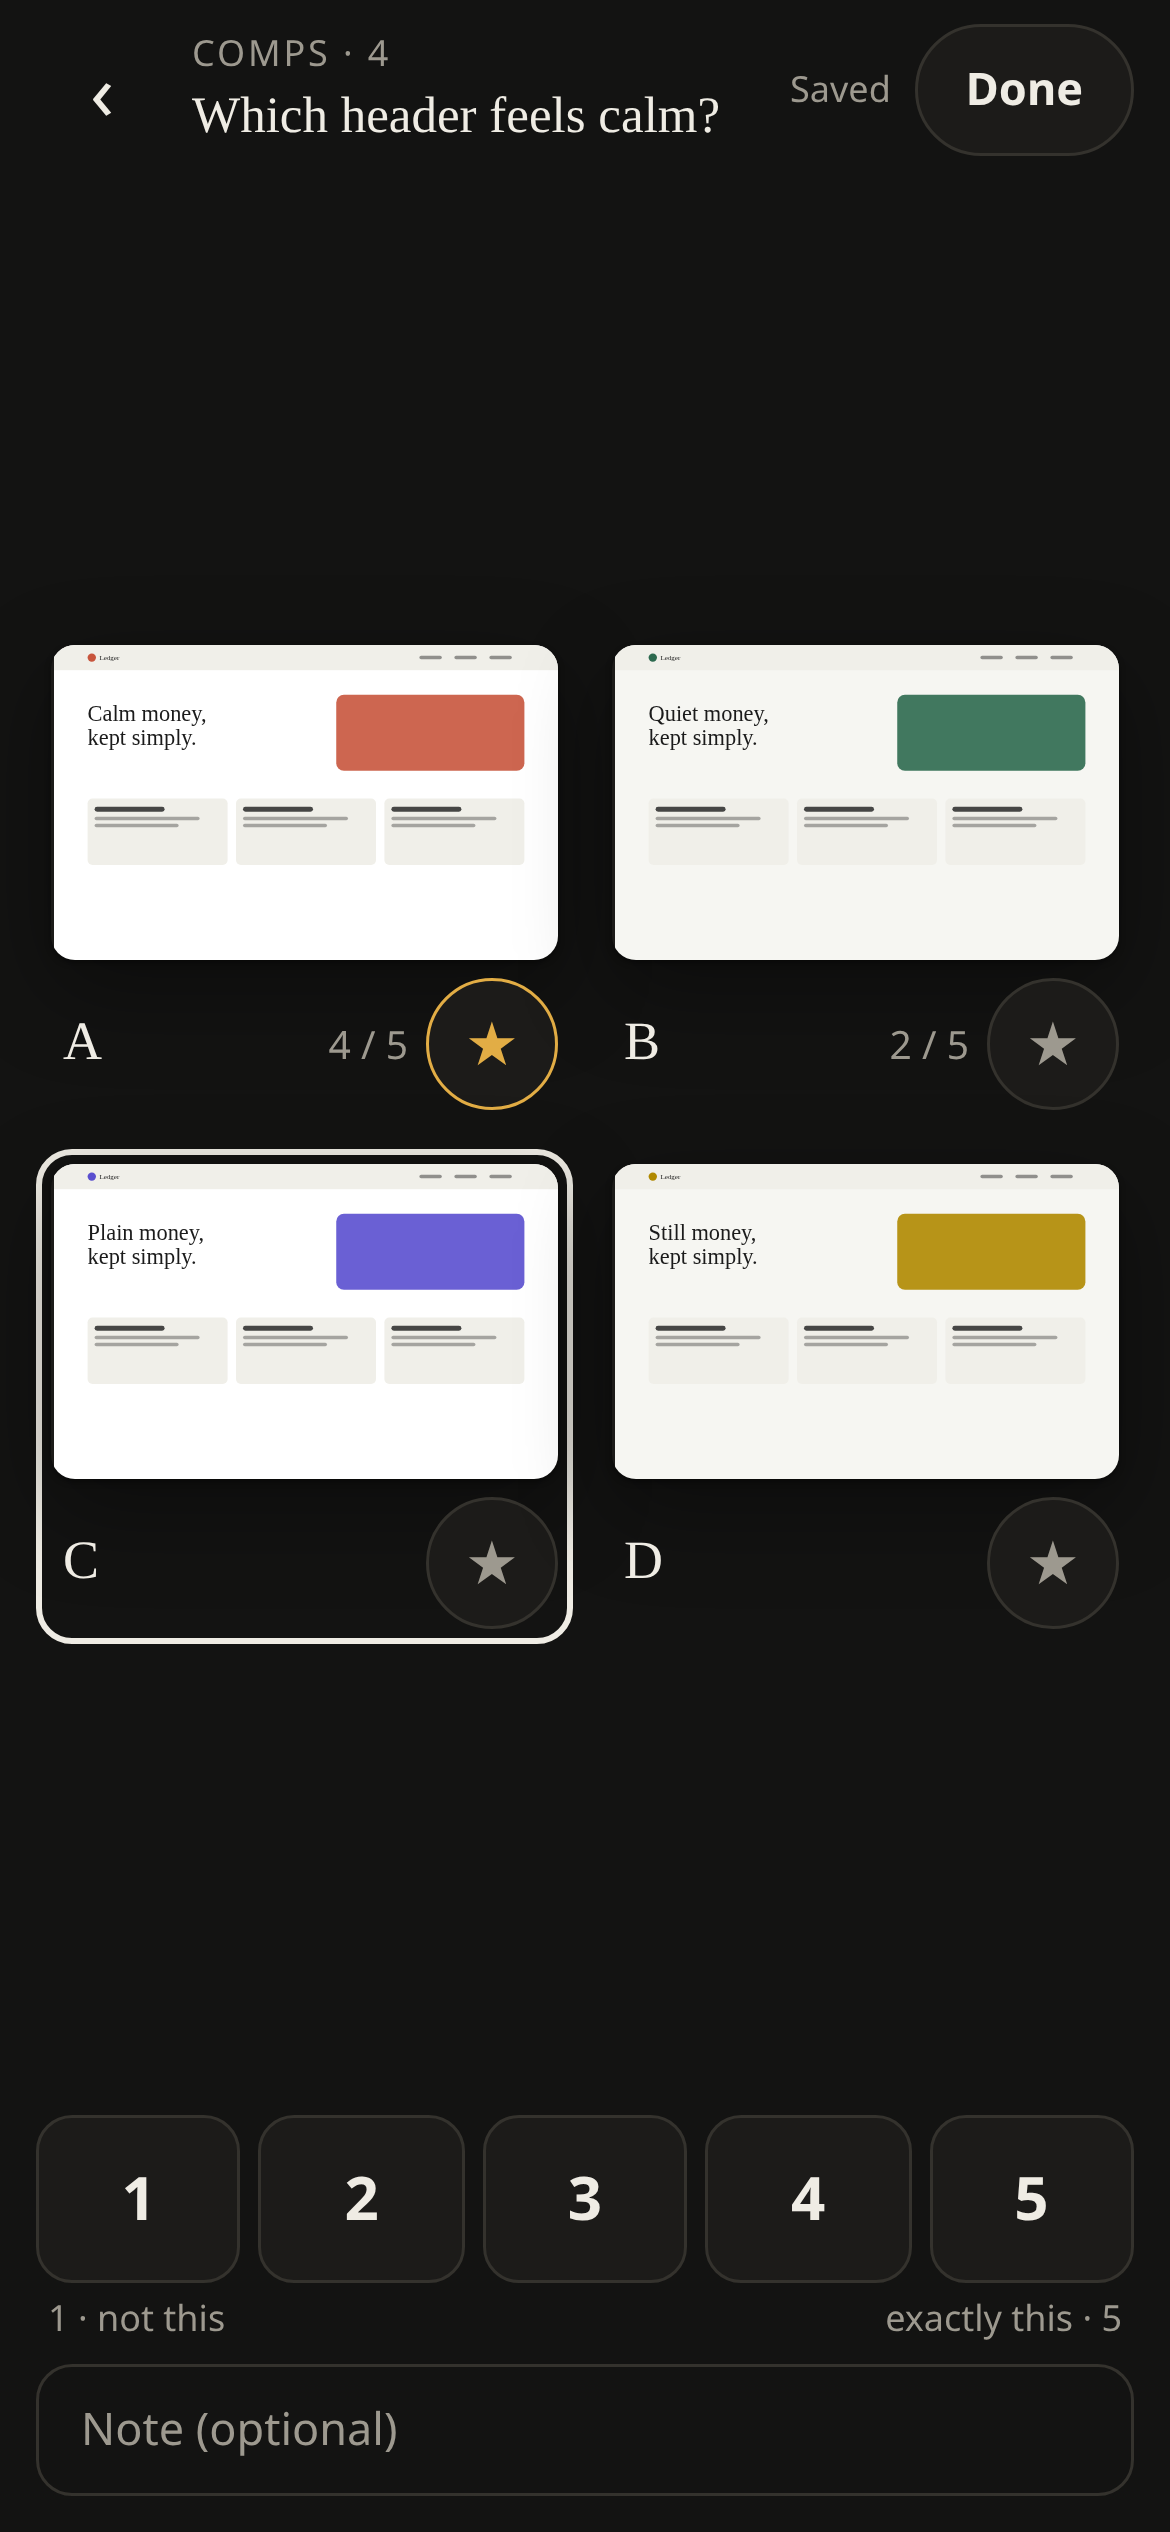
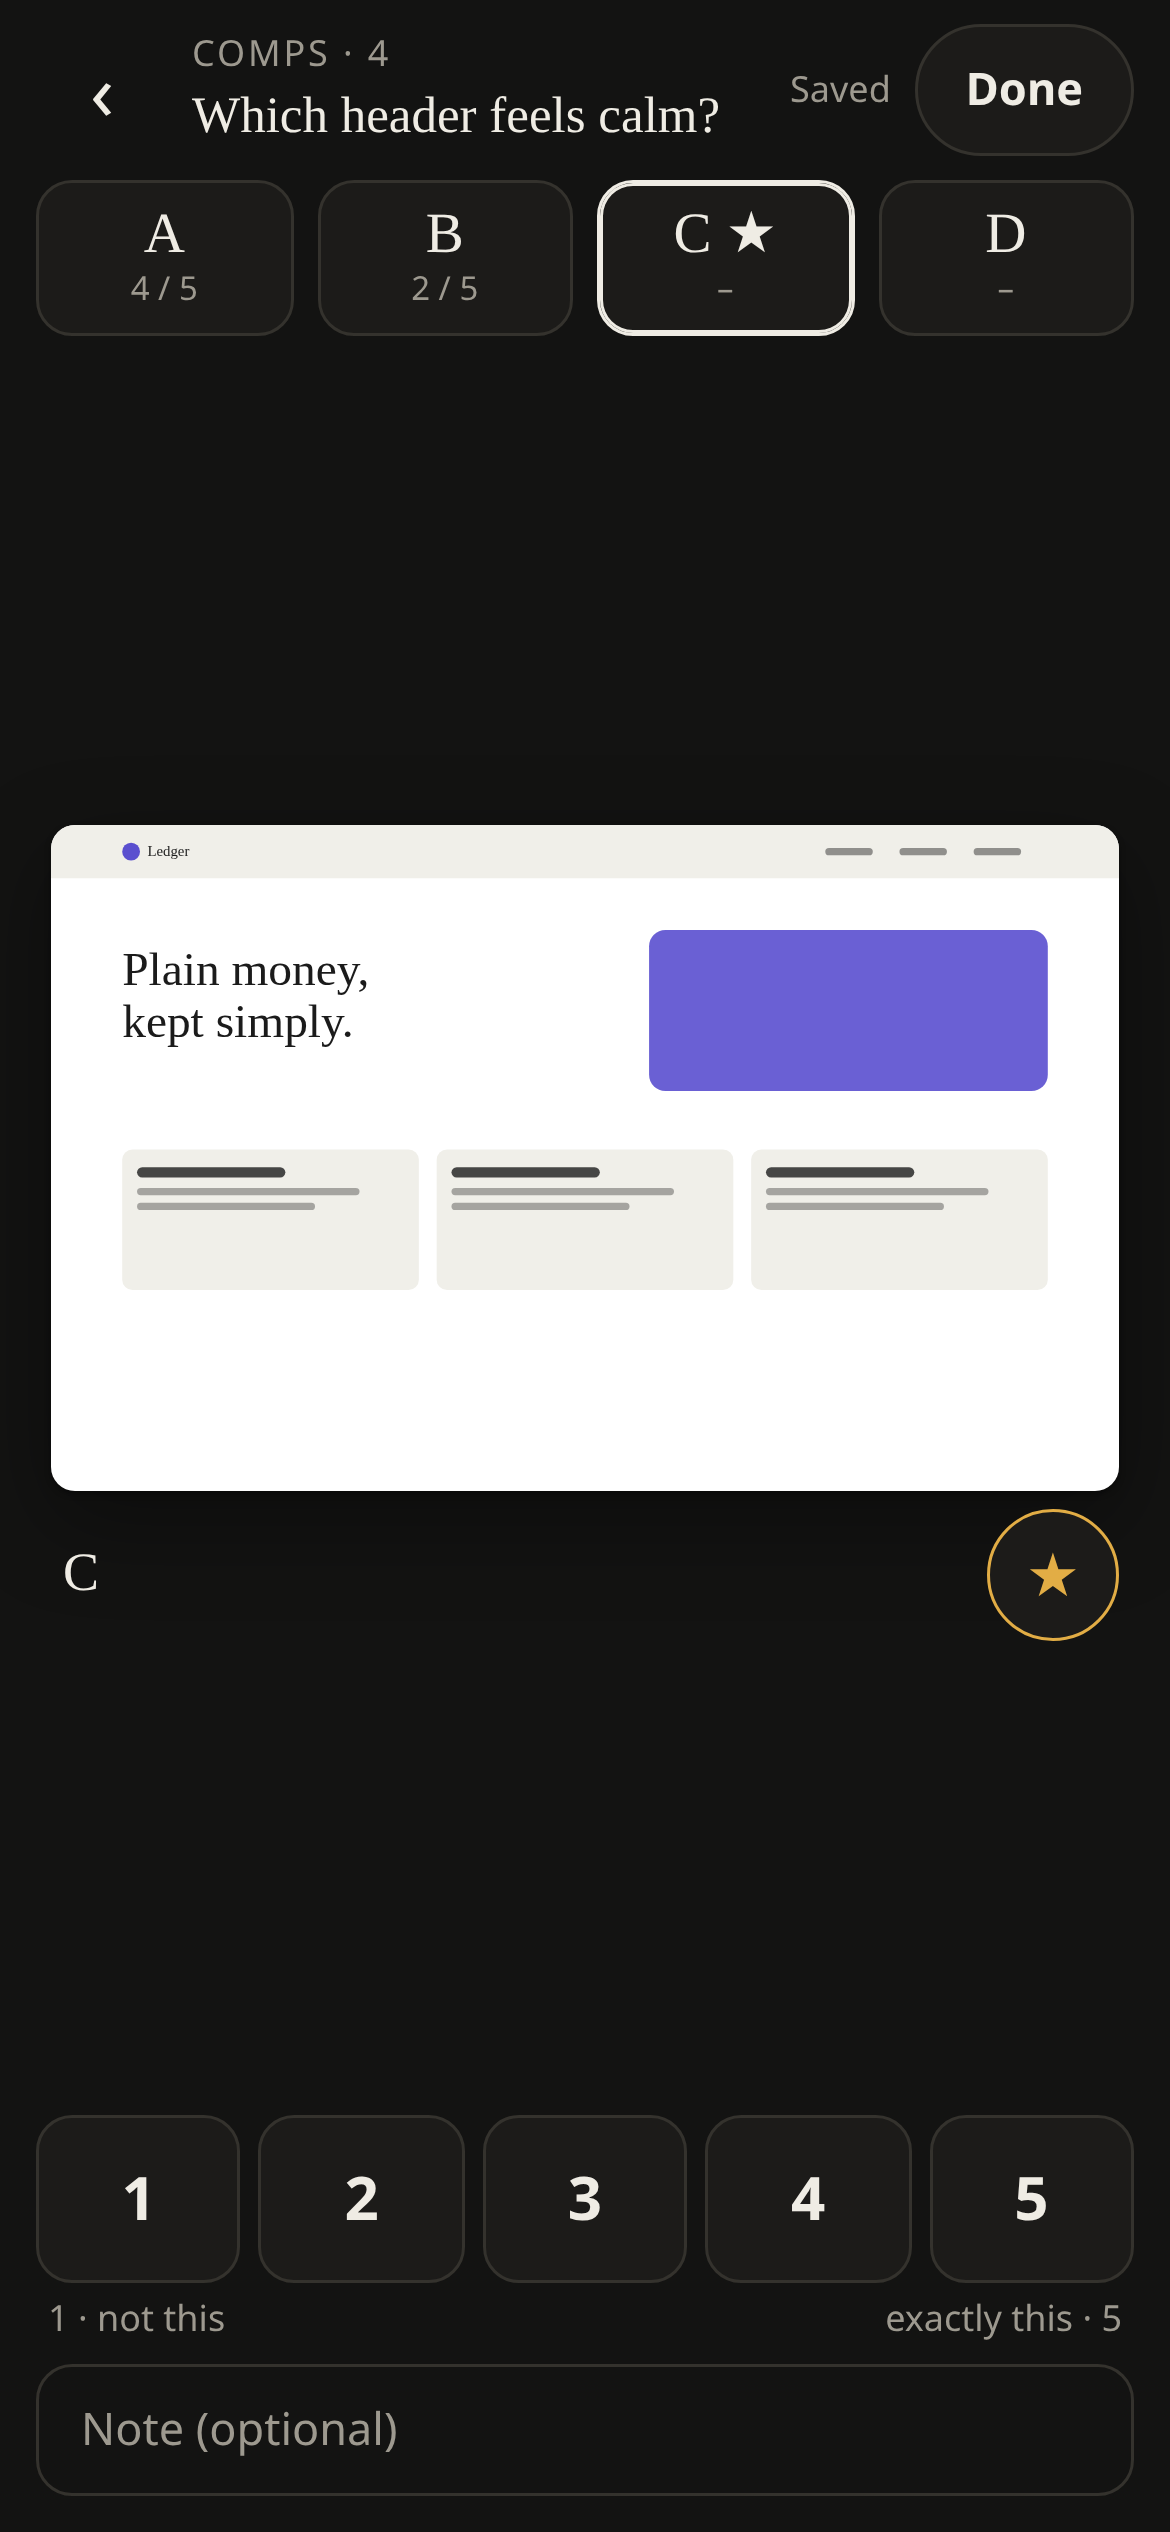
rig taste comps on a phone: one at a time, A-D chips, tap or swipe
Under 600 px wide the comps view shows one comp at full width with chips above it that carry each
comp's rating and star; a tap on a chip or a sideways swipe switches. The stage owns sideways
swipes (touch-action: pan-y, no overscroll): a swipe right had been taken as the browser's back
gesture and left the board. Chip tap and swipe are tested with real touch input, each with a
control seen red.

diff --git a/src/taste/page.js b/src/taste/page.js
@@ -15,7 +15,7 @@ const CSS = `
   color-scheme:dark;
 }}
 *{box-sizing:border-box}
-html,body{margin:0;height:100%;overflow:hidden;background:var(--bg);color:var(--ink);
+html,body{margin:0;height:100%;overflow:hidden;overscroll-behavior:none;background:var(--bg);color:var(--ink);
   font:15px/1.4 ui-sans-serif,system-ui,-apple-system,"Segoe UI",Roboto,sans-serif;-webkit-font-smoothing:antialiased}
 button,input{font:inherit;color:inherit}
 button{touch-action:manipulation;-webkit-tap-highlight-color:transparent;cursor:pointer}
@@ -31,7 +31,8 @@ header{display:flex;align-items:center;gap:8px;padding:8px max(12px,env(safe-are
 #done{height:44px;min-width:72px;padding:0 16px;border-radius:22px;border:1px solid var(--line);background:var(--paper);font-weight:600}
 #done.ready{background:var(--ink);color:var(--bg);border-color:var(--ink)}
 main{position:relative;min-height:0;padding:8px 16px}
-#stage{position:absolute;inset:8px 16px;display:flex;align-items:center;justify-content:center;gap:var(--gap,20px);transition:opacity .12s ease}
+/* A sideways swipe on the stage is the board's (next comp), never the browser's back gesture. */
+#stage{touch-action:pan-y;position:absolute;inset:8px 16px;display:flex;align-items:center;justify-content:center;gap:var(--gap,20px);transition:opacity .12s ease}
 #stage.leaving{opacity:0}
 figure{margin:0;display:flex;flex-direction:column;align-items:center;gap:6px}
 figure .shot{background:var(--paper);border-radius:8px;box-shadow:var(--shadow);overflow:hidden;display:block}
@@ -60,6 +61,13 @@ footer{padding:4px 16px max(12px,env(safe-area-inset-bottom));display:flex;flex-
 .grid{position:absolute;inset:0;display:grid;gap:16px;justify-content:center;align-content:center}
 .comp{position:relative;min-width:0;min-height:0;display:flex;flex-direction:column;gap:6px;border-radius:12px;padding:6px;border:2px solid transparent;background:transparent}
 .comp.sel{border-color:var(--ink)}
+.one .comp.sel{border-color:transparent}
+.chips{position:absolute;top:0;left:0;right:0;display:flex;gap:8px;justify-content:center}
+.chip{flex:1;max-width:88px;min-width:44px;height:52px;border-radius:12px;border:1px solid var(--line);background:var(--paper);display:flex;flex-direction:column;align-items:center;justify-content:center;gap:2px;line-height:1.1;padding:0}
+.chip b{font-family:ui-serif,Georgia,serif;font-size:19px;font-weight:500}
+.chip small{font-size:11px;color:var(--muted);font-variant-numeric:tabular-nums}
+.chip[aria-selected=true]{border-color:var(--ink);box-shadow:inset 0 0 0 1px var(--ink)}
+.chip b{color:var(--ink)}
 .comp .pick{flex:none;border:0;padding:0;background:var(--paper);border-radius:8px;box-shadow:var(--shadow);overflow:hidden;display:block;width:100%}
 .comp .pick img{display:block;width:100%;height:100%;object-fit:contain}
 .comp .bar{display:flex;align-items:center;gap:6px;height:44px}
@@ -195,6 +203,16 @@ function fit(figs){
 function imgUrl(card, view){ return '/img/' + encodeURIComponent(card.id) + '/' + view + '?t=' + encodeURIComponent(S.token) + '&v=' + (card.v[view] || '') }
 
 var relayout = function(){}
+// A horizontal swipe on the single comp moves to the next or previous one.
+var swipeFrom = null
+stage.addEventListener('touchstart', function(e){ swipeFrom = e.touches.length === 1 ? { x: e.touches[0].clientX, y: e.touches[0].clientY } : null }, { passive: true })
+stage.addEventListener('touchend', function(e){
+  var t = e.changedTouches[0], from = swipeFrom; swipeFrom = null
+  if (!from || !t || steps[pos].kind !== 'comps' || innerWidth >= ONE_UNDER) return
+  var dx = t.clientX - from.x, dy = t.clientY - from.y
+  if (Math.abs(dx) < 40 || Math.abs(dx) < Math.abs(dy) * 1.2) return
+  select(Math.max(0, Math.min(comps.length - 1, sel + (dx < 0 ? 1 : -1))))
+})
 window.addEventListener('resize', function(){ relayout() })
 
 function shotFig(card, view, caption){
@@ -222,15 +240,35 @@ function renderRef(i){
 
 // The comps view: the question once, in the header, and the comps as large as the stage allows.
 // Each frame takes its image's own shape, and the column count is whichever makes them biggest.
+// Under 600 px wide a grid of four is four thumbnails, so a phone shows one comp at a time at
+// full width, with A–D chips above it (tap one, or swipe the comp) carrying each one's rating.
+var ONE_UNDER = 600
 function renderComps(){
+  var one = innerWidth < ONE_UNDER
   $('progress').textContent = 'Comps · ' + comps.length
   $('name').textContent = S.question || 'Which one?'; $('name').title = S.question || ''
   document.body.classList.add('asking')
+  document.body.classList.toggle('one', one)
   stage.innerHTML = ''; stage.style.display = 'block'; stage.style.flexDirection = ''
+  var chips = null
+  if (one){
+    chips = el('div', 'chips'); chips.id = 'chips'; chips.setAttribute('role', 'tablist')
+    comps.forEach(function(c, k){
+      var a = answerOf('comp', c.id), letter = String.fromCharCode(65 + k)
+      var chip = el('button', 'chip'); chip.type = 'button'; chip.dataset.k = k
+      chip.setAttribute('role', 'tab'); chip.setAttribute('aria-selected', String(k === sel)); chip.setAttribute('aria-label', 'Comp ' + letter + (a.rating ? ', rated ' + a.rating : ''))
+      chip.appendChild(el('b', null, letter + (S.pick === c.id ? ' ★' : '')))
+      chip.appendChild(el('small', null, a.rating ? a.rating + ' / 5' : '–'))
+      chip.addEventListener('click', function(){ select(k) })
+      chips.appendChild(chip)
+    })
+    stage.appendChild(chips)
+  }
   var grid = el('div', 'grid'); grid.id = 'grid'
   stage.appendChild(grid)
   var imgs = []
   comps.forEach(function(c, k){
+    if (one && k !== sel) return
     var a = answerOf('comp', c.id), letter = String.fromCharCode(65 + k)
     var card = el('div', 'comp' + (k === sel ? ' sel' : '')); card.dataset.id = c.id
     var pick = el('button', 'pick'); pick.type = 'button'; pick.setAttribute('aria-label', 'Select comp ' + letter)
@@ -248,13 +286,15 @@ function renderComps(){
     card.appendChild(pick); card.appendChild(bar); grid.appendChild(card)
   })
   relayout = function(){
-    var W = stage.clientWidth, H = stage.clientHeight, gap = parseFloat(getComputedStyle(grid).rowGap) || 8
+    if ((innerWidth < ONE_UNDER) !== one) return renderComps()
+    if (chips) grid.style.top = chips.offsetHeight + 12 + 'px'
+    var W = grid.clientWidth, H = grid.clientHeight, gap = parseFloat(getComputedStyle(grid).rowGap) || 8
     var loaded = imgs.filter(function(i){ return i.naturalWidth && i.naturalHeight })
     var a = loaded.length ? loaded.reduce(function(s, i){ return s + i.naturalWidth / i.naturalHeight }, 0) / loaded.length : 1.6
     var cs = getComputedStyle(grid.firstChild)
     var padW = parseFloat(cs.paddingLeft) * 2 + parseFloat(cs.borderLeftWidth) * 2
     var padH = padW + 44 + parseFloat(cs.rowGap || 0)
-    var best = 1, bestW = 0, n = comps.length
+    var best = 1, bestW = 0, n = grid.children.length
     for (var c = 1; c <= n; c++){
       var r = Math.ceil(n / c)
       var w = Math.min((W - gap * (c - 1)) / c - padW, ((H - gap * (r - 1)) / r - padH) * a)
@@ -306,7 +346,7 @@ function updateDone(){
 
 function go(p){
   flushNote()
-  document.body.classList.remove('asking')
+  document.body.classList.remove('asking', 'one')
   pos = Math.max(0, Math.min(steps.length - 1, p))
   var s = steps[pos]
   $('back').disabled = pos === 0

diff --git a/test/taste.test.js b/test/taste.test.js
@@ -898,7 +898,10 @@ await suite('rig taste', async (s) => {
         const q = await page.eval('document.getElementById("name")?.textContent')
         for (const r of [2, 5, 3, 4]) await press(page, input, `.rate[data-rating="${r}"]`, { touch: true })
         await sleep(300)
-        await press(page, input, '.comp:nth-child(2) .star', { touch: true })
+        // One comp at a time on a phone: B's chip, then its star.
+        await press(page, input, '.chip[data-k="1"]', { touch: true })
+        await sleep(100)
+        await press(page, input, '.comp .star', { touch: true })
         await sleep(150)
         await press(page, input, '#done', { touch: true })
         const path = await Promise.race([b.finished, sleep(4000).then(() => null)])
@@ -911,6 +914,7 @@ await suite('rig taste', async (s) => {
         ]
         const rows = tableRows(md, '## Comps — "Which header feels calm?"')
         if (JSON.stringify(rows) !== JSON.stringify(want)) console.log(`        comps rows: ${JSON.stringify(rows)}`)
+        if (q !== 'Which header feels calm?') console.log(`        header reads ${q}`)
         return q === 'Which header feels calm?' && JSON.stringify(rows) === JSON.stringify(want)
       } finally {
         await close()
@@ -927,7 +931,7 @@ await suite('rig taste', async (s) => {
         const times = await page.eval('document.body.innerText.split("Which header feels calm?").length - 1')
         // The fixtures are 1440×900: a frame within a pixel of 1.6 wide per tall, no letterbox.
         const shapes = await page.eval('[...document.querySelectorAll(".comp .pick")].map((p) => p.clientWidth / p.clientHeight)')
-        const ok = times === 1 && shapes.length === 4 && shapes.every((r) => Math.abs(r - 1.6) < 0.03)
+        const ok = times === 1 && shapes.length >= 1 && shapes.every((r) => Math.abs(r - 1.6) < 0.03)
         if (!ok) console.log(`        question shown ${times}×, frames ${shapes.map((r) => r.toFixed(2)).join(', ')}`)
         return ok
       } finally {
@@ -945,13 +949,64 @@ await suite('rig taste', async (s) => {
     timeout: 60_000,
   })
 
-  const TARGETS = [
-    '.rate',
-    '#note',
-    '#done',
-    '#back',
-    ...[1, 2, 3, 4].flatMap((n) => [`.comp:nth-child(${n}) .star`, `.comp:nth-child(${n}) .pick`]),
-  ]
+  /** Which comp the phone view shows, and what each chip says. */
+  const shownComp = (page) => page.eval('document.querySelector("#grid .comp")?.dataset.id')
+  const chipText = (page, k) => page.eval(`document.querySelector('.chip[data-k="${k}"]')?.innerText.replace(/\\s+/g, ' ').trim()`)
+
+  await s.check('comps on a phone: tapping a chip shows that comp, and the chip carries its rating', {
+    assert: async () => {
+      const { b, page, input, close } = await compsBoard()
+      try {
+        await press(page, input, '.chip[data-k="2"]', { touch: true })
+        await waitFor(async () => (await shownComp(page)) === b.round.comps[2].id, 1000)
+        const showsC = (await shownComp(page)) === b.round.comps[2].id
+        await press(page, input, '.rate[data-rating="4"]', { touch: true })
+        await sleep(300)
+        const chip = await chipText(page, 2)
+        if (!showsC || chip !== 'C 4 / 5') console.log(`        shows C: ${showsC}; chip C reads "${chip}"`)
+        return showsC && chip === 'C 4 / 5'
+      } finally {
+        await close()
+      }
+    },
+    // The control: chips that take the tap and do nothing with it.
+    breaks: pageBreak(`document.addEventListener('click', (e) => { if (e.target.closest('.chip')) e.stopImmediatePropagation() }, true)`),
+    timeout: 60_000,
+  })
+
+  await s.check('comps on a phone: a swipe left shows the next comp, a swipe right the one before', {
+    assert: async () => {
+      const { b, page, input, close } = await compsBoard()
+      try {
+        const box = await page.eval(
+          '(() => { const r = document.querySelector("#grid .comp .pick").getBoundingClientRect(); return { x: r.left + r.width / 2, y: r.top + r.height / 2 } })()',
+        )
+        const start = await shownComp(page)
+        await input.swipe({ x: box.x + 100, y: box.y, dx: -200, dy: 0 })
+        await waitFor(async () => (await shownComp(page)) !== start, 1000)
+        const next = await shownComp(page)
+        await input.swipe({ x: box.x - 100, y: box.y, dx: 200, dy: 0 })
+        await waitFor(async () => (await shownComp(page)) !== next, 1000)
+        const back = await shownComp(page)
+        const ids = b.round.comps.map((c) => c.id)
+        const ok = start === ids[0] && next === ids[1] && back === ids[0]
+        if (!ok)
+          console.log(
+            `        start ${ids.indexOf(start)}, after left ${ids.indexOf(next)}, after right ${ids.indexOf(back)}; progress ${await progress(page)}; stage: ${(await page.eval('document.getElementById("stage").innerHTML')).slice(0, 200)}`,
+          )
+        return ok
+      } finally {
+        await close()
+      }
+    },
+    // The control: a board deaf to swipes, its touch never reaching the comp.
+    breaks: pageBreak(
+      `document.addEventListener('touchend', (e) => { if (e.target.closest('#stage')) e.stopImmediatePropagation() }, true)`,
+    ),
+    timeout: 60_000,
+  })
+
+  const TARGETS = ['.rate', '#note', '#done', '#back', '.comp .star', '.comp .pick', ...[0, 1, 2, 3].map((k) => `.chip[data-k="${k}"]`)]
   await s.check('comps at 390 wide: every target is at least 44 px', {
     assert: async () => {
       const { page, close } = await compsBoard()
@@ -968,7 +1023,7 @@ await suite('rig taste', async (s) => {
     timeout: 60_000,
   })
 
-  // The control: four fixed 160 px columns, the layout that runs off a phone's right edge.
+  // The control: a fixed 640 px column, the layout that runs off a phone's right edge.
   await s.check('comps at 390 wide: no sideways scroll, every control in reach', {
     assert: async () => {
       const { page, close } = await compsBoard()
@@ -980,9 +1035,7 @@ await suite('rig taste', async (s) => {
         await close()
       }
     },
-    breaks: pageBreak(
-      `document.head.insertAdjacentHTML('beforeend', '<style>.grid{grid-template-columns:repeat(4,160px)!important}</style>')`,
-    ),
+    breaks: pageBreak(`document.head.insertAdjacentHTML('beforeend', '<style>.grid{grid-template-columns:640px!important}</style>')`),
     timeout: 60_000,
   })
 
@@ -1042,7 +1095,7 @@ await suite('rig taste', async (s) => {
         await round(vp, { dark, notes: {}, shots: async (page, at) => at === 'round' && snap(page, `taste-round-${vp}-${theme}`) })
         const { page, input, close } = await compsBoard(vp, dark)
         for (const r of [4, 2]) await press(page, input, `.rate[data-rating="${r}"]`, { touch: VIEWPORTS[vp].touch }).then(() => sleep(260))
-        await press(page, input, '.comp:nth-child(1) .star', { touch: VIEWPORTS[vp].touch })
+        await press(page, input, '.comp .star', { touch: VIEWPORTS[vp].touch })
         await snap(page, `taste-comps-${vp}-${theme}`)
         await close()
       }
